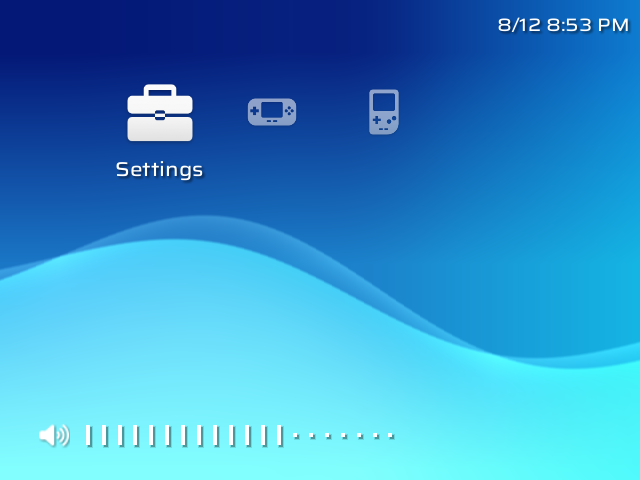
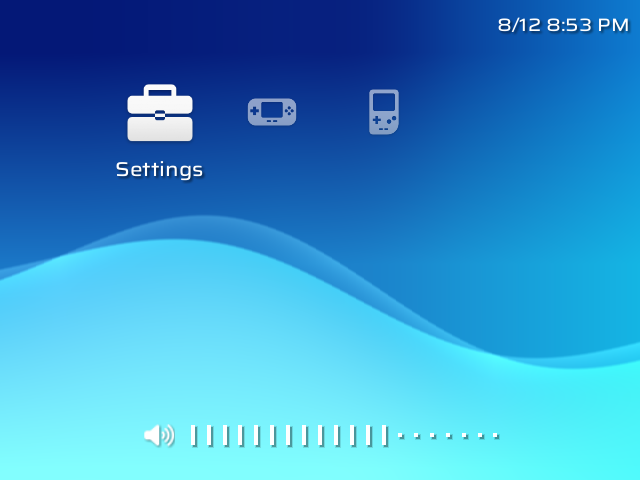
Centre the level gauges along the foot of the screen
Volume, brightness and screen temperature now sit in the middle of the
bottom of the screen instead of at the left.

Claude-Session: https://claude.ai/code/session_01FsfKRD5qBANRaqUwDsRFL4

Changed region(s): [[0.0625, 0.875, 0.7812, 0.9375]]

diff --git a/crates/slot-ui/src/hud.rs b/crates/slot-ui/src/hud.rs
@@ -340,8 +340,8 @@ impl Hud {
 
     /// The level as a row of segments near the bottom of the screen, its icon to the left, on a
     /// soft dark band.
-    /// The handheld's level gauge, measured off its screen: along the foot of the screen, the
-    /// icon at the left, then a tick for every step at a fixed spacing, so a scale with fewer
+    /// The handheld's level gauge, measured off its screen: centred along the foot of the
+    /// screen, the icon first, then a tick for every step at a fixed spacing, so a scale with fewer
     /// steps (brightness, screen temperature) makes a shorter gauge. Steps reached are short
     /// upright bars, the rest dots, each with a soft shadow.
     fn draw_segments(&self, canvas: Canvas, alpha: f32, out: &mut Vec<Draw>) {
@@ -363,9 +363,14 @@ impl Hud {
         let (iw, ih) = icon_box(HUD_ICON_PX);
         let scale = (h * 0.07) / ih as f32;
         let (iw, ih) = (iw as f32 * scale, ih as f32 * scale);
+        let pitch = w * 0.0249;
+        let bar_w = (w * 0.0058).round().max(2.0);
+        // The icon, a gap, then the ticks, the whole gauge centred along the foot.
+        let span = iw / 2.0 + w * (0.137 - 0.084) + (max.max(1) - 1) as f32 * pitch + bar_w / 2.0;
+        let icon_x = (w - span) / 2.0 + iw / 2.0;
         if let Some(tex) = self.icon() {
             out.push(Draw::Tex {
-                x: (w * 0.084 - iw / 2.0).round(),
+                x: (icon_x - iw / 2.0).round(),
                 y: (y - ih / 2.0).round(),
                 w: iw,
                 h: ih,
@@ -373,9 +378,7 @@ impl Hud {
                 alpha,
             });
         }
-        let x0 = w * 0.137;
-        let pitch = w * 0.0249;
-        let bar_w = (w * 0.0058).round().max(2.0);
+        let x0 = icon_x + w * (0.137 - 0.084);
         let bar_h = (h * 0.042).round();
         let dot = (h * 0.008).round().max(2.0);
         let shadow = (1.5 * s).round().max(1.0);
